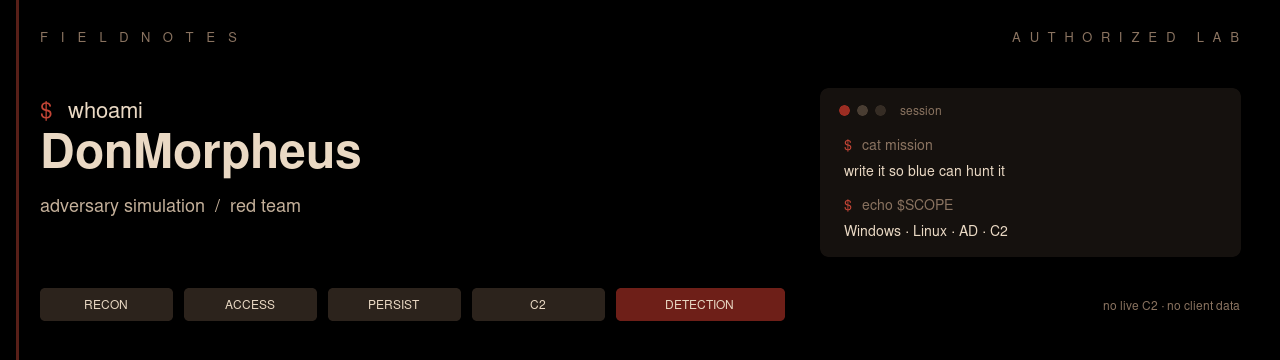
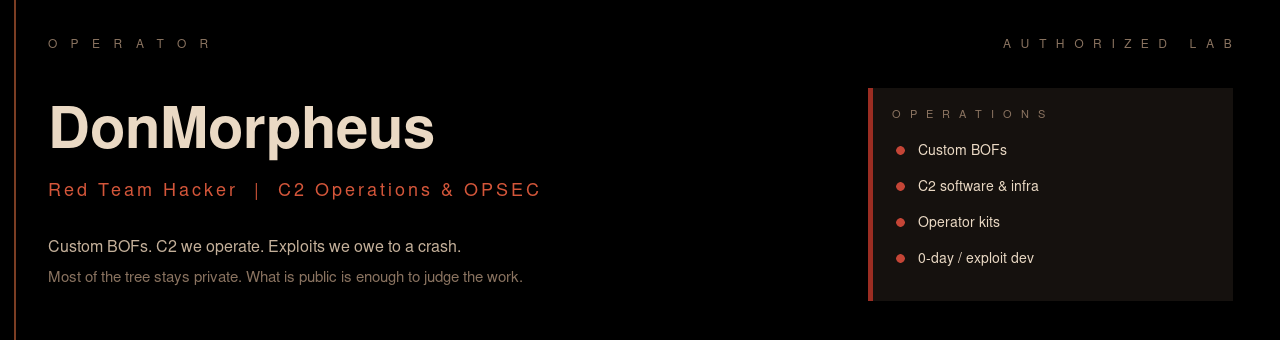
Rewrite profile as operator dossier
Drop whoami, hire badges, and stack. Lead with C2 operations,
custom BOFs, operator kits, and 0-day / exploit development.

diff --git a/README.md b/README.md
@@ -1,74 +1,65 @@
 <div align="center">
-  <img src="assets/banner.png" alt="DonMorpheus — whoami" width="100%" />
+  <img src="assets/banner.png" alt="DonMorpheus — Red Team Hacker | C2 Operations &amp; OPSEC" width="100%" />
 </div>
 
-<p align="center">
-  <strong>Adversary simulation / red team</strong> · authorized labs<br/>
-  Windows · Linux · Active Directory · C2 as a detection problem
-</p>
+<br/>
 
-<p align="center">
-  <a href="https://github.com/DonMorpheus/fieldnotes">fieldnotes</a>
-  ·
-  <a href="https://github.com/DonMorpheus/loaders">loaders</a>
-  ·
-  <a href="https://github.com/DonMorpheus/havoc-hiddendesktop">havoc-hiddendesktop</a>
-  ·
-  <a href="https://github.com/DonMorpheus/ctf-toolkit">ctf-toolkit</a>
-</p>
+I build the kit we operate. Custom BOFs for jobs the stock payload cannot do. C2 software and the infrastructure under it. Operator kits that have to survive a real desktop. 0-day research that is supposed to end in an exploit — not a slide.
 
-<p align="center">
-  <img src="https://img.shields.io/badge/lab-authorized-9b2d22?style=flat-square&labelColor=1c1612" alt="authorized lab"/>
-  <img src="https://img.shields.io/badge/scope-Windows%20%7C%20Linux%20%7C%20AD-c44536?style=flat-square&labelColor=1c1612" alt="scope"/>
-  <img src="https://img.shields.io/badge/open%20to-work-ead9c4?style=flat-square&labelColor=1c1612" alt="open to work"/>
-</p>
+The public repos are the edge of that work. The rest stays in the lab.
 
 ---
 
-### whoami
+## Operations
 
-Operator in authorized labs (own VMs, HTB, GOAD-style forests). I run the chain, then write it down so **blue can hunt it** — leftover artifacts, telemetry, mitigations. Not a blog. Not a highlight reel.
+<table>
+<tr>
+<td width="50%" valign="top">
 
-> Operator labu. Red team. Notatki tak, żeby dało się z nich polować — nie tylko odtwarzać atak.
+### Custom BOFs
+
+In-process operator modules, written for the C2 we actually run. Credentials, inject, persist, HVNC, patches — compiled, loaded, used on a session. If CoffeeLdr, the object file, or the job model is broken, we fix the BOF. We do not screenshot someone else’s repo and call it a capability.
+
+</td>
+<td width="50%" valign="top">
+
+### C2 software &amp; infrastructure
+
+Teamserver, listeners, staging, implants, lab redirectors. Sleep, jitter, channel, what the callback still leaks. C2 is a detection problem as much as a framework: periodicity, process, destination, size versus the binary it pretends to be. We operate it. We break our own OPSEC on purpose and write down what still shows.
+
+</td>
+</tr>
+<tr>
+<td width="50%" valign="top">
+
+### Operator kits
+
+Loaders and persist that have to work on a workstation, not in a gist. Early Bird APC, COM TreatAs / ClickOnce, Linux eBPF persist, a HiddenDesktop HVNC port that actually talks back. The kit is for the operator at the console — launch, inject, rportfwd, keep the desktop.
+
+</td>
+<td width="50%" valign="top">
+
+### 0-day research &amp; exploit development
+
+Crash-to-exploit on software in authorized scope. Parsers, services, IPC, third-party Windows and Linux targets. C, taint, crash triage, then the exploit — not a PoC that dies on the next build. Findings stay private until there is a coordinated path. The method is public enough to be judged.
+
+</td>
+</tr>
+</table>
 
 ---
 
-### Selected work
+## Public traces
 
-| Repo | What a recruiter is looking at |
-|------|--------------------------------|
-| **[fieldnotes](https://github.com/DonMorpheus/fieldnotes)** | Public lab manual. Kill-chain notes the way an operator actually used them: steps, leftovers, what blue still sees. |
-| **[loaders](https://github.com/DonMorpheus/loaders)** | Lab loaders and persist in C: Early Bird APC, COM TreatAs / ClickOnce (`T1546.015`), Linux eBPF implant (`T1547.006`). |
-| **[havoc-hiddendesktop](https://github.com/DonMorpheus/havoc-hiddendesktop)** | Working Havoc port of HiddenDesktop (HVNC). Stock BOF dies on CoffeeLdr / inject / rportfwd — this tree runs. |
-| **[ctf-toolkit](https://github.com/DonMorpheus/ctf-toolkit)** | HTB / lab scripts from real boxes. Machine-specific. No flags, no VPN configs, no live creds. |
+The notes and code we can show without burning lab infra or a research target.
 
----
-
-### How I work
-
-- **Lab first.** If I did not run it, the note says `RESEARCH`. If I did, it says `LAB`.
-- **Detection in the same breath.** Size vs the real binary, what lands on disk, what `ss` still leaks, which Event IDs fire.
-- **No live C2, no client data, no flags in git.** Public code is for labs you own or have written permission to test.
-
-```text
-$ echo $FOCUS
-Windows internals · Linux persist · AD assumed-breach · operator tooling
-
-$ echo $OPEN_TO
-red team  ·  adversary simulation  ·  detection engineering  ·  pentest
-```
-
----
-
-### Stack I actually use
-
-C · Python · Bash · Windows COM / APC · eBPF · AD (Kerberos trails, assumed-breach) · operator-side C2 modules (Havoc)
-
-Hands gym: Hack The Box (Linux, Windows, AD) plus home lab VMs.
+- **[fieldnotes](https://github.com/DonMorpheus/fieldnotes)** — lab manual. How the chain was run, what was left on disk, what blue still sees.
+- **[loaders](https://github.com/DonMorpheus/loaders)** — staging and persist in C. Early Bird, COM (`T1546.015`), eBPF implant (`T1547.006`).
+- **[havoc-hiddendesktop](https://github.com/DonMorpheus/havoc-hiddendesktop)** — working HVNC operator kit. Stock BOF dies on CoffeeLdr / inject / rportfwd. This tree does not.
+- **[ctf-toolkit](https://github.com/DonMorpheus/ctf-toolkit)** — scripts from boxes we rooted. No flags, no VPN configs, no live credentials.
 
 ---
 
 <p align="center">
-  <sub>Authorized lab &amp; security research only. Not a license to attack systems you do not own.</sub><br/>
-  <sub>Reach me on GitHub — profile marked <strong>available for hire</strong>.</sub>
+  <sub>Authorized lab &amp; security research only. Not a license to attack systems you do not own.</sub>
 </p>
